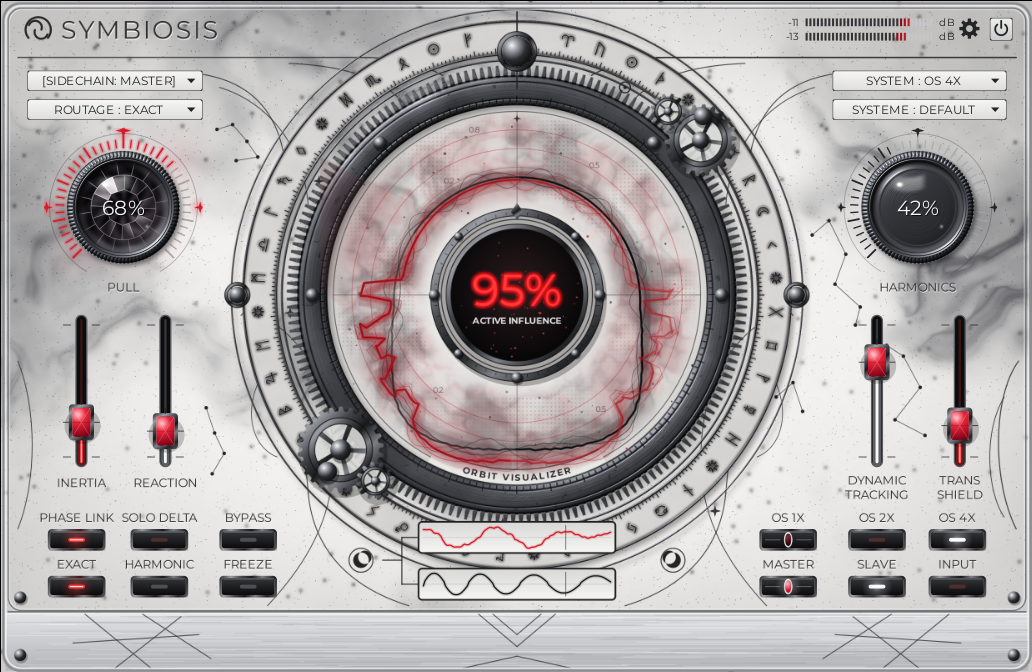
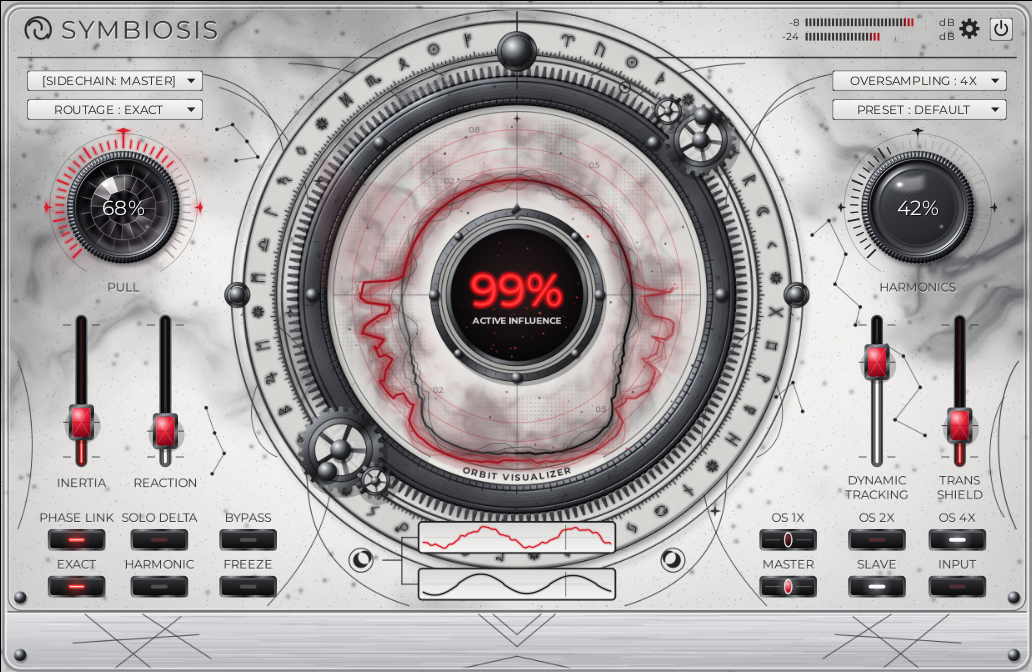
Symbiosis: rename the SYSTEM / SYSTEME menus to OVERSAMPLING / PRESET
The two top-right menus differed by one letter; their labels now say
what they set.

Claude-Session: https://claude.ai/code/session_01EYfjfNx7L5c1EkYZbbE7BF

diff --git a/symbiosis/source/ui/symbiosis_editor.cpp b/symbiosis/source/ui/symbiosis_editor.cpp
@@ -1902,10 +1902,10 @@ bool PLUGIN_API SymbiosisEditor::open (void* parent, const PlatformType& platfor
 	frame->addView (routage);
 	paramViews.push_back (routage);
 
-	auto* system = new DropdownView (
+	auto* oversampling = new DropdownView (
 	    CRect (693, 58, 838, 75),
 	    [this] {
-		    static const char* names[] = {"SYSTEM : OS 1X", "SYSTEM : OS 2X", "SYSTEM : OS 4X"};
+		    static const char* names[] = {"OVERSAMPLING : 1X", "OVERSAMPLING : 2X", "OVERSAMPLING : 4X"};
 		    return std::string (names[std::clamp (static_cast<int> (getPlain (kParamOversamplingId)), 0, 2)]);
 	    },
 	    [this] (DropdownView* v) {
@@ -1916,11 +1916,11 @@ bool PLUGIN_API SymbiosisEditor::open (void* parent, const PlatformType& platfor
 		                {"Oversampling 4x", os == 2 ? CMenuItem::kChecked : 0}},
 		               [this] (int i) { setPlainFromGui (kParamOversamplingId, i); });
 	    });
-	frame->addView (system);
-	paramViews.push_back (system);
+	frame->addView (oversampling);
+	paramViews.push_back (oversampling);
 
-	auto* systeme = new DropdownView (
-	    CRect (693, 82, 838, 99), [this] { return "SYSTEME : " + currentPresetName (); },
+	auto* preset = new DropdownView (
+	    CRect (693, 82, 838, 99), [this] { return "PRESET : " + currentPresetName (); },
 	    [this] (DropdownView* v) {
 		    const std::string current = currentPresetName ();
 		    std::vector<std::pair<std::string, int32_t>> entries;
@@ -1931,8 +1931,8 @@ bool PLUGIN_API SymbiosisEditor::open (void* parent, const PlatformType& platfor
 				    applyPreset (kFactoryPresets[i]);
 		    });
 	    });
-	frame->addView (systeme);
-	paramViews.push_back (systeme);
+	frame->addView (preset);
+	paramViews.push_back (preset);
 
 	// header: meters, gear (about), power (bypass)
 	auto* meters = new MeterView (CRect (650, 10, 795, 36), hud);

diff --git a/symbiosis/README.md b/symbiosis/README.md
@@ -219,8 +219,8 @@ Pour régénérer : `python3 symbiosis/tools/generate_assets.py`.
   un cadre d'acier sombre. Glisser verticalement (Maj = réglage fin),
   molette, double-clic ou Ctrl-clic (Cmd-clic sur Mac) pour la valeur par défaut.
 - **Menus** : `[SIDECHAIN: MASTER]` indique si le sidechain reçoit un signal (sinon
-  `NONE`) ; `ROUTAGE` = Target Mode ; `SYSTEM` = Oversampling ; `SYSTEME` =
-  presets d'usine (DEFAULT, KICK / 808, VOCAL / BEAT, GENTLE, INTENSE, ou CUSTOM).
+  `NONE`) ; `ROUTAGE` = Target Mode ; `OVERSAMPLING` = suréchantillonnage
+  (comme les boutons OS 1X / 2X / 4X) ; `PRESET` = presets d'usine (DEFAULT, KICK / 808, VOCAL / BEAT, GENTLE, INTENSE, ou CUSTOM).
 - **Douze boutons à LED** (corps noir, LED rouge ou blanche) :
 
   | | colonne 1 | colonne 2 | colonne 3 |
